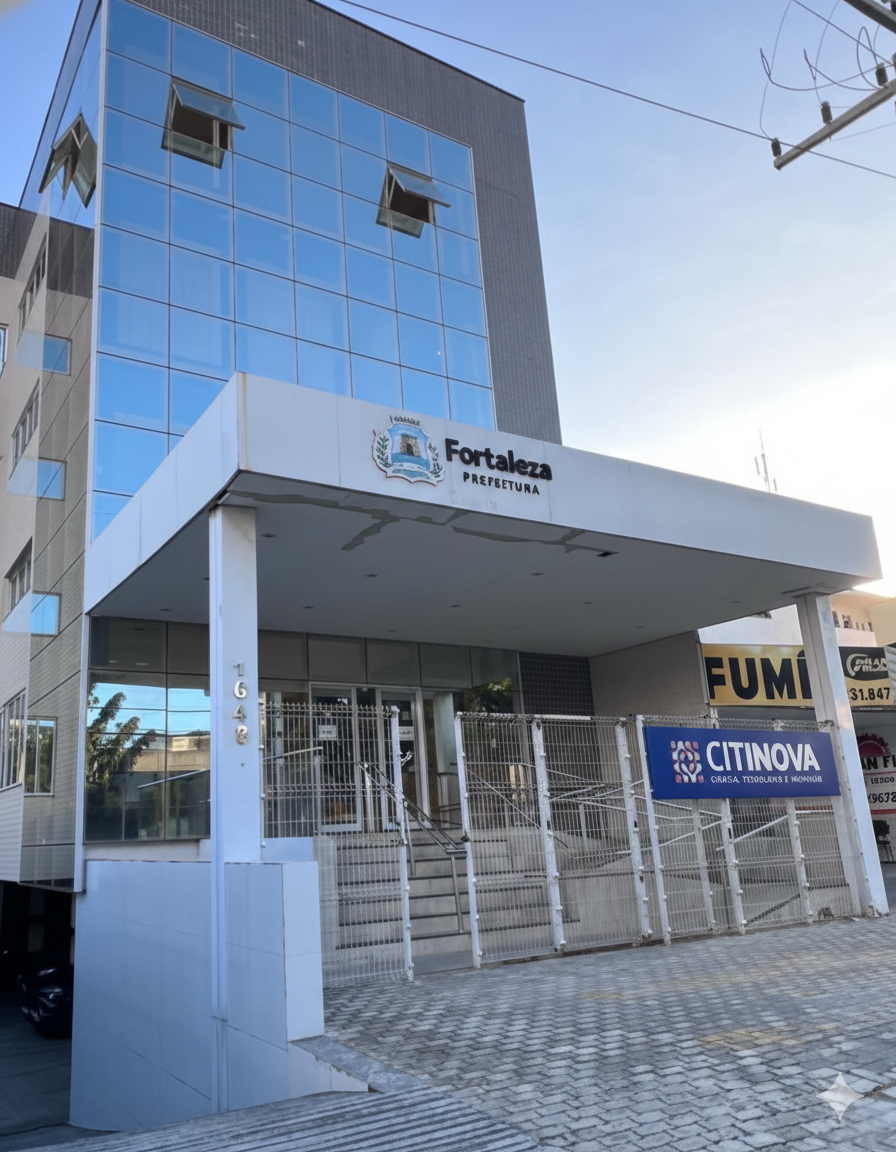
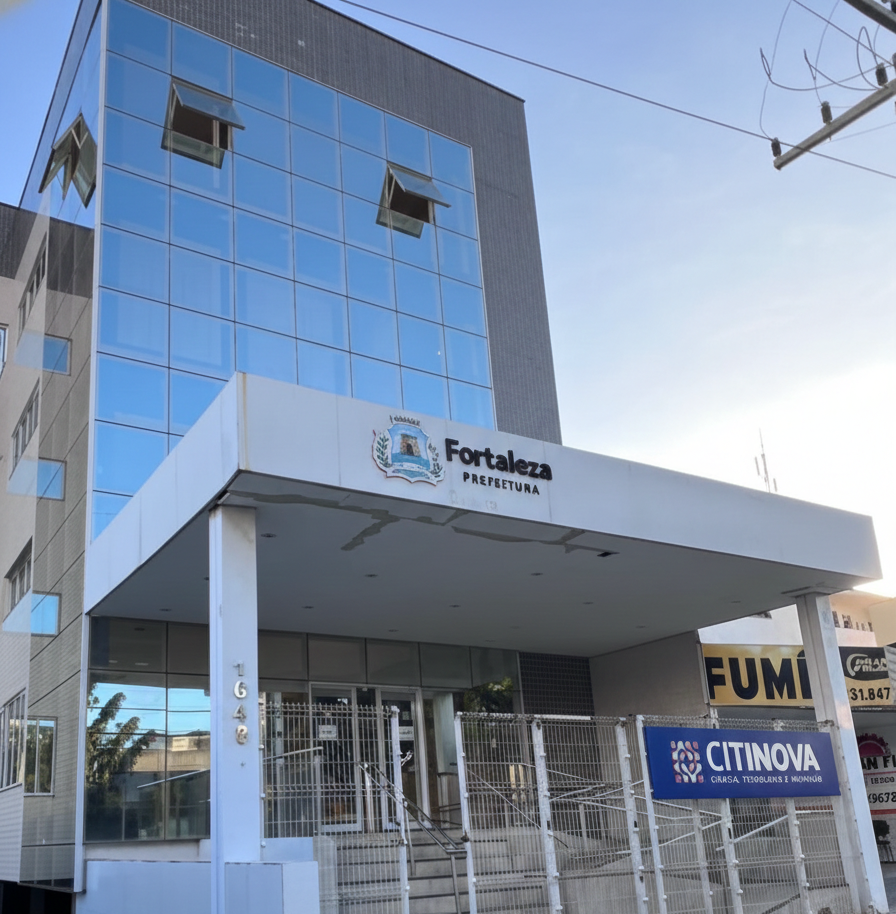
Adicionando imagem da fachada no projeto

diff --git a/citinova_projeto_final/assets/css/style.css b/citinova_projeto_final/assets/css/style.css
@@ -120,20 +120,15 @@ body{
   padding: 16px;
 }
 
-/* Foto do SOBRE: menor, aparece inteira */
-.media-frame--about{
-  max-width: 300px;      /* controla o tamanho total do card */
-  margin: 0 auto;        /* centraliza */
-  padding: 0px;
-}
-.media-frame--about img{
+/* Apenas a imagem da fachada */
+.img-fachada {
   width: 100%;
-  max-height: 460px;     /* trava altura pra não ficar enorme */
-  height: auto;          /* mantém proporção */
-  object-fit: contain;   /* aparece a imagem toda */
-  border-radius: 12px;
-  display: block;
+  height: 420px;
+  object-fit:inherit;
+  border-radius: 160x;
 }
+
+
 
 /* News cards */
 .news-card{

diff --git a/citinova_projeto_final/index.html b/citinova_projeto_final/index.html
@@ -136,8 +136,8 @@
           <div class="mt-4">
             <div class="media-frame media-frame--about">
               <!-- ✅ troque aqui se quiser: assets/img/fachada-citinova.png -->
-              <img src="assets/img/foto.png" alt="Sede da Citinova">
-            </div>
+          <img class="img-fachada" src="assets/img/foto.png" alt="Sede da Citinova">
+          </div>
           </div>
         </div>
       </div>
